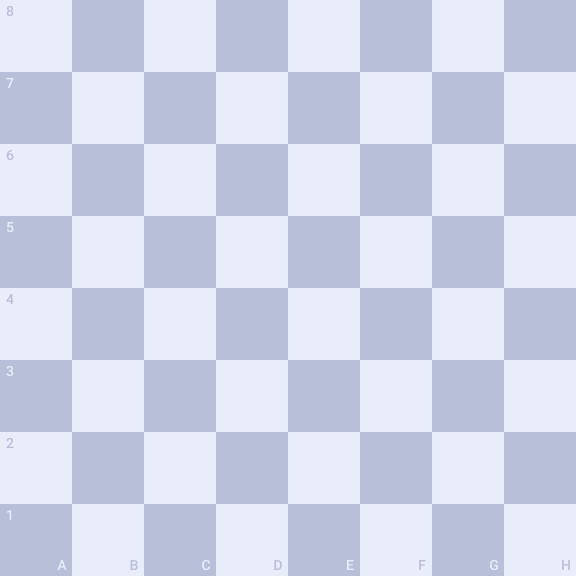
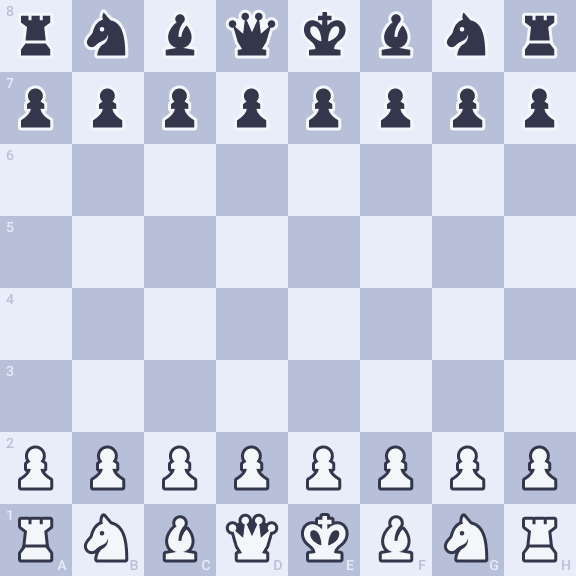
Refactor in ImageBoard, CommandEvents, and Chess

diff --git a/cogs/CommandEvents.py b/cogs/CommandEvents.py
@@ -2,6 +2,7 @@ from discord.ext import commands
 import discord
 from Chess import Chess
 from ImageBoard import ImageBoard
+
 class CommandEvents(commands.Cog):
     def __init__(self, bot):
         self.bot = bot
@@ -15,7 +16,7 @@ class CommandEvents(commands.Cog):
         self.final_num = ['4_']
         self.chess = Chess()
         self.board = ImageBoard(self.chess.board.board)
-    # async def setup(self):
+        
     async def load_reactions(self, board, extra):
         
         self.final_let = self.load_custom_emoji(self.final_let)
@@ -29,11 +30,9 @@ class CommandEvents(commands.Cog):
             await extra.add_reaction(emoji)
             
         for emoji in self.final_let:
-            # emoji = discord.utils.get(self.bot.emojis, name=name)
             await board.add_reaction(emoji)
             
         for emoji in self.final_num:
-
             await extra.add_reaction(emoji)
             
     @commands.command(name='play', aliases=['p'])
@@ -45,7 +44,7 @@ class CommandEvents(commands.Cog):
         # reset the reactions
         # then we have to check for errors and how to print that out
         channel = self.bot.get_channel(961025712276525267)
-        img = await channel.send(file=discord.File('assets/images/simple/board.png'))
+        img = await channel.send(file=discord.File('assets/images/simple/default.png'))
         img_link = img.attachments[0]
         board = await ctx.send(img_link)
         extra = await ctx.send('** **')
@@ -57,14 +56,14 @@ class CommandEvents(commands.Cog):
         while self.running():
             reactions = []
             emojis = []
-            while not self.moved(emojis):
+            while not self.valid_reactions(emojis):
                 reaction, user = await self.bot.wait_for("reaction_add", check=check)
                 reactions.append(reaction)
                 emojis.append(reaction.emoji)
                 
             # start, final = self.emoji_to_pos(emojis)
             # self.chess.move(start, final)
-            # self.board.add_pieces(self.chess.board.board)
+            # self.board.generate_image(self.chess.board.board)
             # self.chess.board.print_board()
             
             # img = await channel.send(file=discord.File('assets/images/simple/board.png'))
@@ -75,21 +74,20 @@ class CommandEvents(commands.Cog):
                 await reaction.remove(user)
             await ctx.send('a')
             
-            
-    def moved(self, moves):
+    def valid_reactions(self, emojis):
         #TODO 
         #Better algorithm
-        if len(moves) != 4:
+        if len(emojis) != 4:
             return False
         start_let_count = 0
         start_num_count = 0
-        final_let_count = 0
+        final_let_count = emoji
         final_num_count = 0
-        for move in moves:
-            start_let_count += self.start_let.count(move)
-            start_num_count += self.start_num.count(move)
-            final_let_count += self.final_let.count(move)
-            final_num_count += self.final_num.count(move)
+        for emoji in emojis:
+            start_let_count += self.start_let.count(emoji)
+            start_num_count += self.start_num.count(emoji)
+            final_let_count += self.final_let.count(emoji)
+            final_num_count += self.final_num.count(emoji)
         return start_let_count == 1 and start_num_count == 1 \
             and final_let_count == 1 and start_num_count == 1
                 
@@ -104,6 +102,7 @@ class CommandEvents(commands.Cog):
         
     def running(self):
         return True
+            
     def emoji_to_pos(self, reactions):
         letters = 'abcdefgh'
         numbers = '12345678'

diff --git a/ImageBoard.py b/ImageBoard.py
@@ -2,20 +2,22 @@ from PIL import Image
 from Board import Board
 
 class ImageBoard(Board):
-    def __init__(self, board):
+    def __init__(self, board = None):
         super().__init__()
-        self.path = 'assets/images/simple'
-        self.generate_default()
-        self.add_pieces(board)
+        self.path = 'assets/images/simple/'
+        self.generate_empty()
+        if board is not None:
+            self.board = board
+        self.generate_image(self.board)
         
-    def generate_default(self):
-        white = Image.open(f'{self.path}/squares/White.png')
-        black = Image.open(f'{self.path}/squares/Black.png')
+    def generate_empty(self):
+        white = Image.open(self.path + 'squares/White.png')
+        black = Image.open(self.path + 'squares/Black.png')
         width, height = 72, 72
         board = Image.new('RGB', (576, 576))
         
         for row in range(7):
-            coord_square_path = f'{self.path}/squares/{8 - row}.png'
+            coord_square_path = self.path + f'squares/{8 - row}.png'
             coord_square = Image.open(coord_square_path)
             board.paste(coord_square, (0, height * row))
             for column in range(1, 8):
@@ -27,26 +29,22 @@ class ImageBoard(Board):
                 
         letters = 'ABCDEFGH'
         for column in range(8):
-            coord_square_path = f'{self.path}/squares/{letters[column]}.png'
+            coord_square_path = self.path + f'squares/{letters[column]}.png'
             coord_square = Image.open(coord_square_path)
             board.paste(coord_square, (width * column, height * 7))
         
-        board.save(f'{self.path}/bg.png')
-        
-    def is_odd(self, num):
-        return num % 2 == 1 
-    def is_even(self, num):
-        return num % 2 == 0
+        board.save(self.path + 'empty.png')
     
-    def add_pieces(self, board):
-        show = Image.open(f'{self.path}/bg.png')
+    
+    def generate_image(self, board):
+        show = Image.open(self.path + 'empty.png')
         for key, value in board.items():
             if value != '__':
-                piece_path = f'{self.path}/pieces/{value}.png'
+                piece_path = self.path + f'pieces/{value}.png'
                 pos = self.pos_to_tup(key)
                 piece = Image.open(piece_path)
                 show.paste(piece, pos, piece)
-        show.save(f'{self.path}/board.png')
+        show.save(self.path + 'board.png')
         
     def pos_to_tup(self, pos):
         letters = 'abcdefgh'
@@ -55,7 +53,11 @@ class ImageBoard(Board):
         x = 72*x + 9
         y = 576 - (72*y - 9)
         return (x, y)
-
+    
+    def is_odd(self, num):
+        return num % 2 == 1 
+    def is_even(self, num):
+        return num % 2 == 0
+    
 if __name__ == '__main__':
     img = ImageBoard()
-    img.add_pieces(img.board)

diff --git a/Chess.py b/Chess.py
@@ -77,7 +77,11 @@ class Chess():
             log.append([move, start + to, ''])
         else:
             log[move - 1][2] = start + to
-
+    def console(self, start, to):
+        print(msg)
+        self.board.print_board()
+        # print(self.move_log)
+        print("---------------------------------------------------------------")
     def move(self, start, to):
         # TODO : ghost board? -theres some redundancy in updating the logic board and visual board
         # MAYBE ADD IN THE BOARD START TO VARIABLES AS CLASS ATTRIBUTES AND UPDATE THEM HERE WHEN ITS VALID? 
@@ -85,6 +89,7 @@ class Chess():
         """ 
         What an absolute mess
         """
+        finished = True
         board = self.board.board
         if self.console:
             self.board.print_board()
